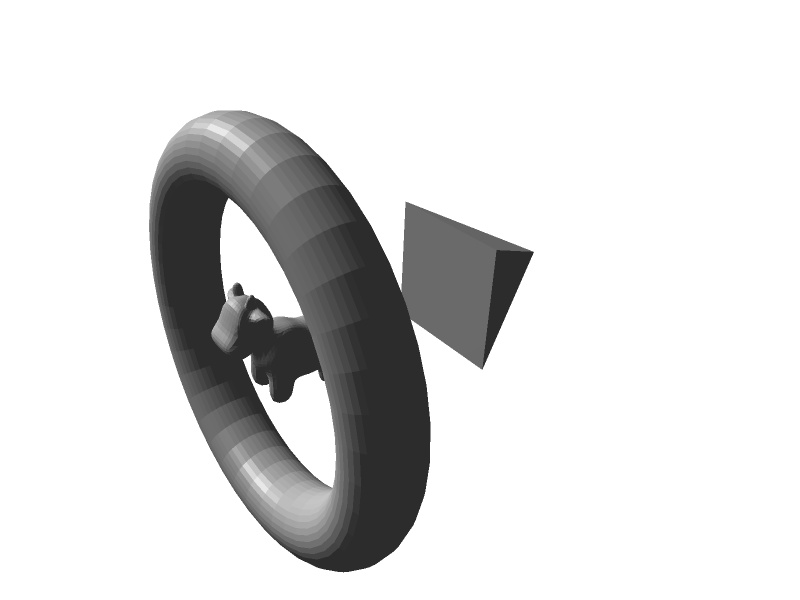
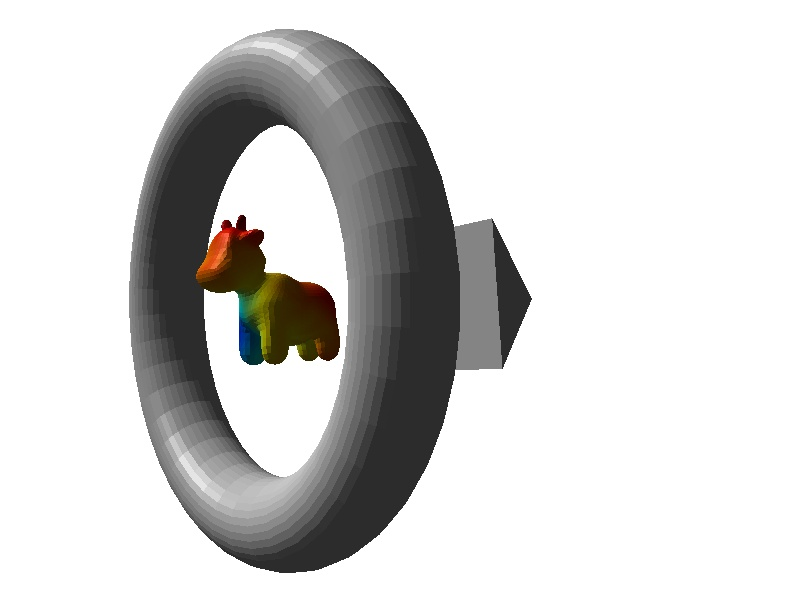
Fix image

Changed region(s): [[0.1562, 0.03, 0.6875, 0.96]]

diff --git a/examples/shapes/exampleSurfaceMesh.cpp b/examples/shapes/exampleSurfaceMesh.cpp
@@ -29,12 +29,17 @@
 
 
 /**
-   This snippet shows how to identify and display digital fully
-   subconvex sets of a grid curve form its tangent bundle.
+   This snippet shows how to build SurfaceMesh objects from different sources:
+   
+   - pyramid: construction from list of coordinates and list of faces
+   - torus:   construction from predefined mesh surface
+   - cow:     construction from OBJ file.
+
+   It also shows how to export it as OBJ files.
 
    @see \ref moduleSurfaceMesh
 
-   \image html grid-curve-dig-convexity.png "Extraction of all subconvex triangles to the digital curve."
+   \image html exampleSurfaceMesh.jpg "Visualisation of three surface meshes, using conversion from SurfaceMesh to Mesh"
 
    \example shapes/exampleSurfaceMesh.cpp
 */
